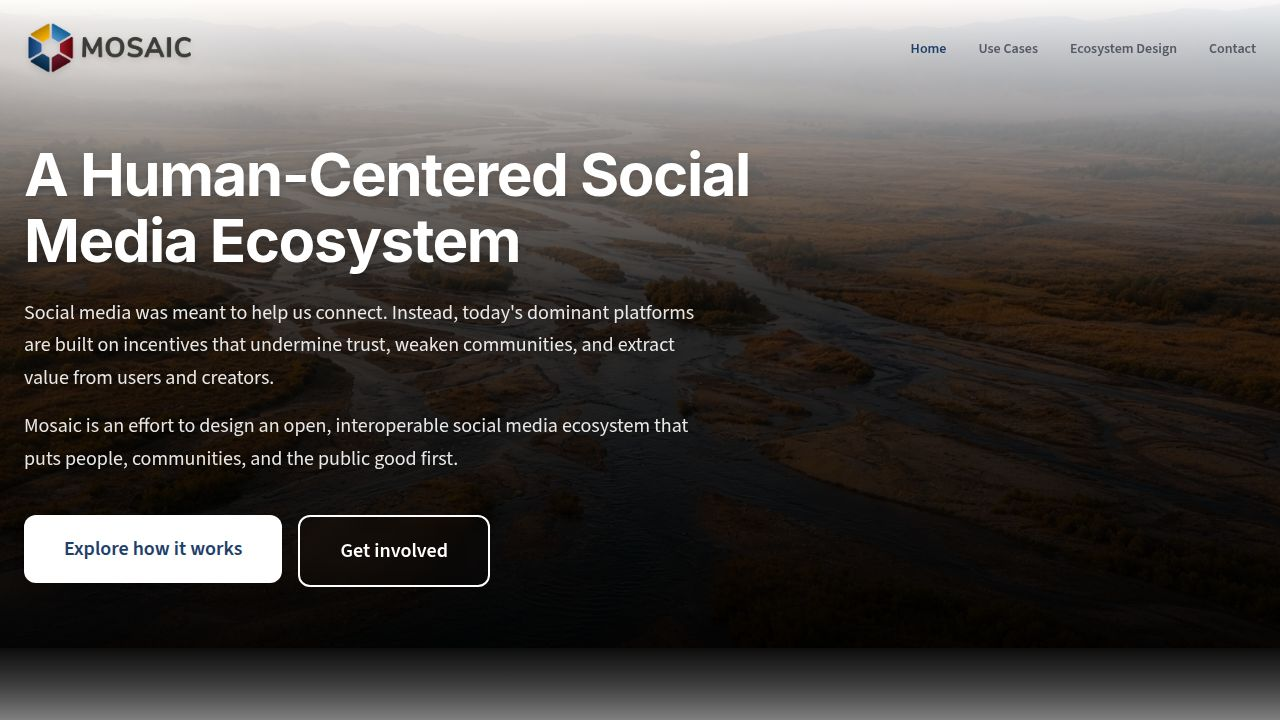
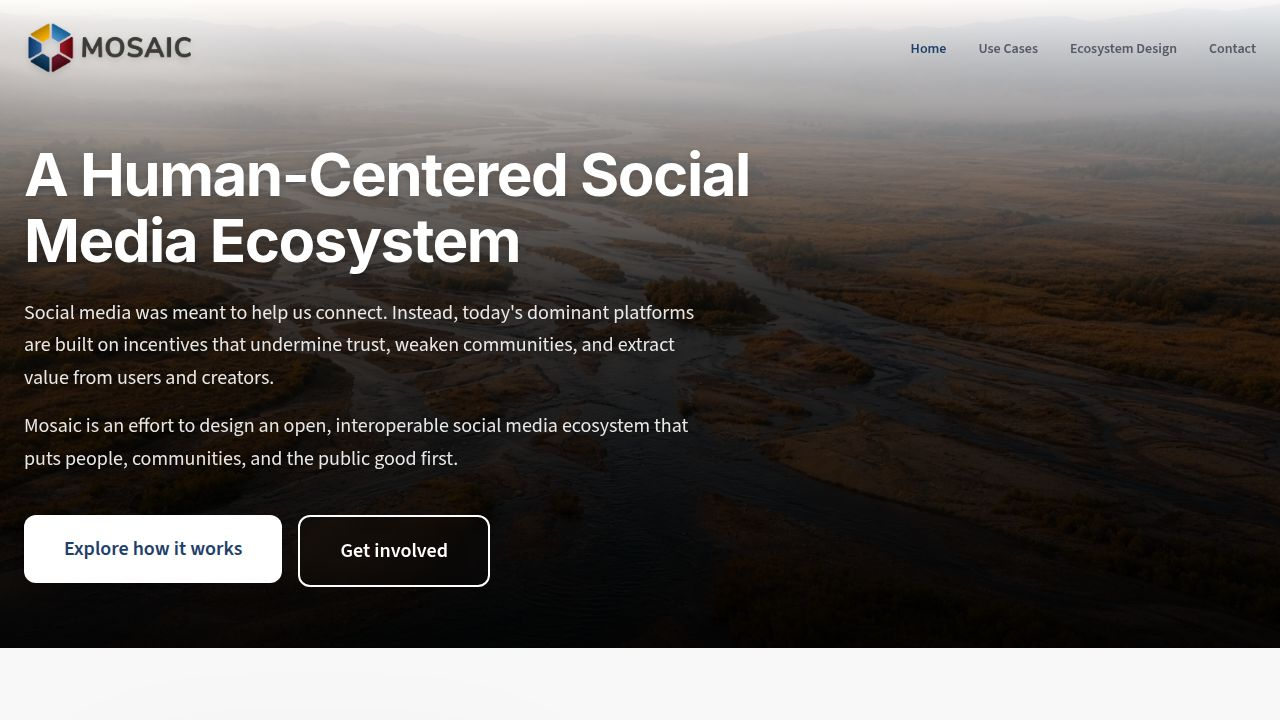
Restored to '8d44fe24561cb0bc454cb2d1b5478bd3d1ddc049'
Replit-Restored-To: 8d44fe24561cb0bc454cb2d1b5478bd3d1ddc049

Changed region(s): [[0.0, 0.8861, 1.0, 1.0]]

diff --git a/client/src/pages/home.tsx b/client/src/pages/home.tsx
@@ -57,10 +57,6 @@ export default function Home() {
           </div>
         </div>
       </section>
-      
-      {/* Transition Zone */}
-      <div className="w-full h-32 bg-gradient-to-b from-black/95 to-muted/30" />
-
       {/* Problem Section */}
       <section className="py-24 bg-muted/30 relative">
         <div className="container mx-auto px-4 md:px-6">
